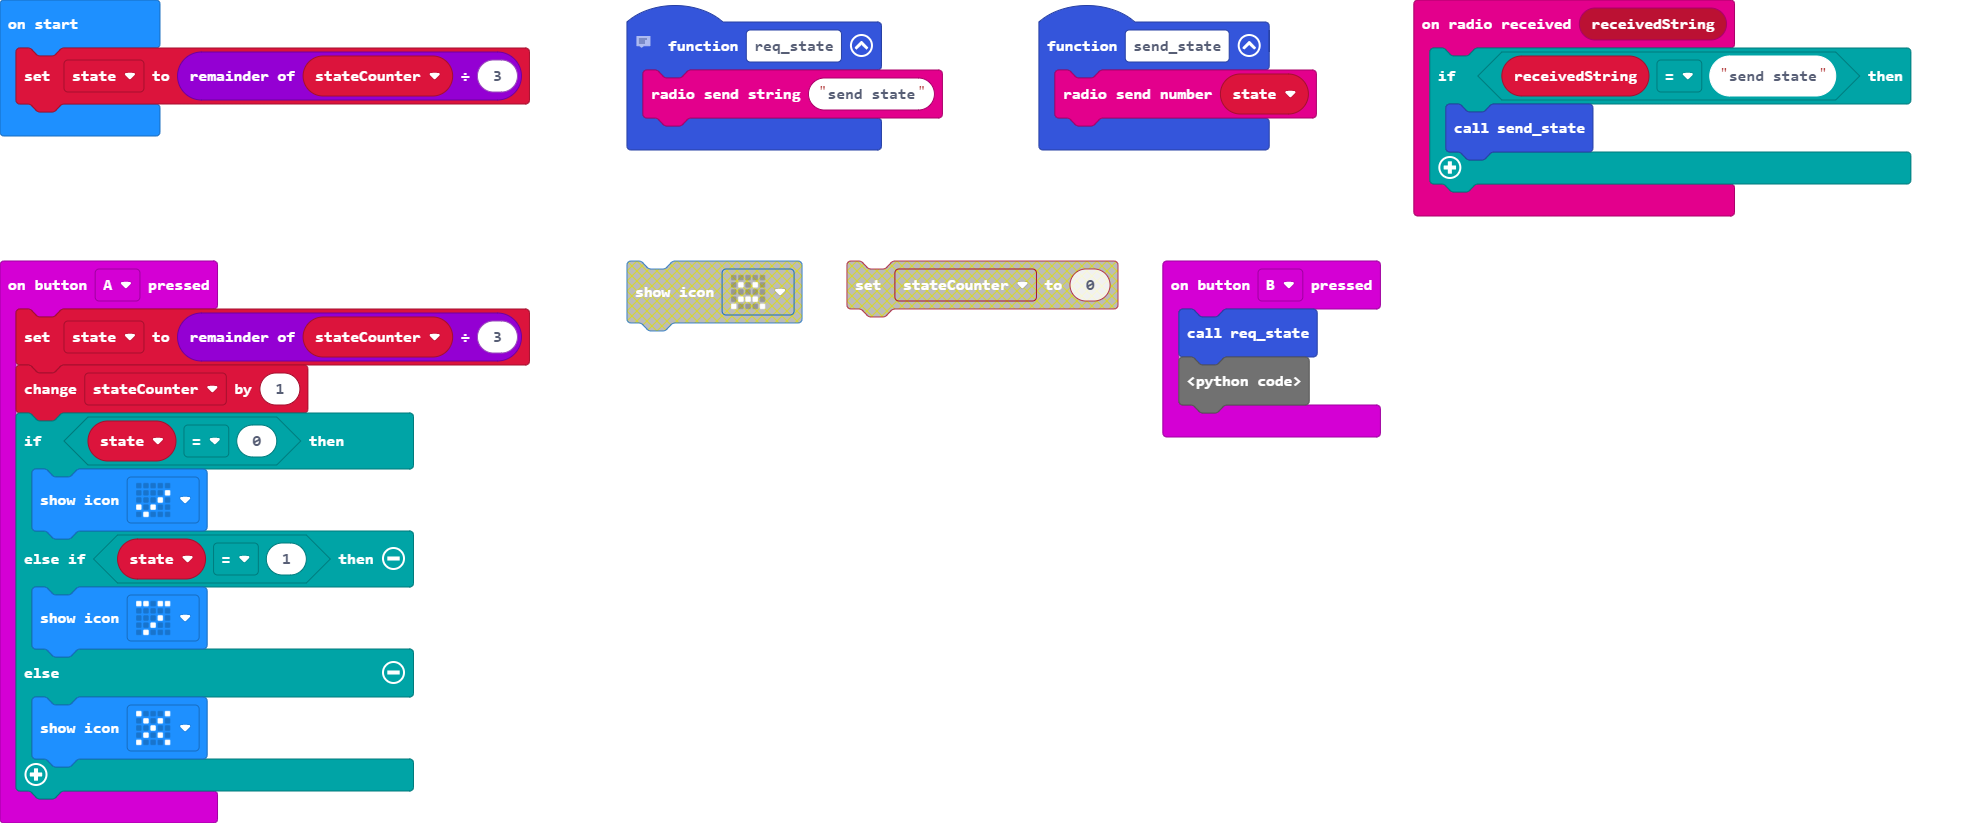
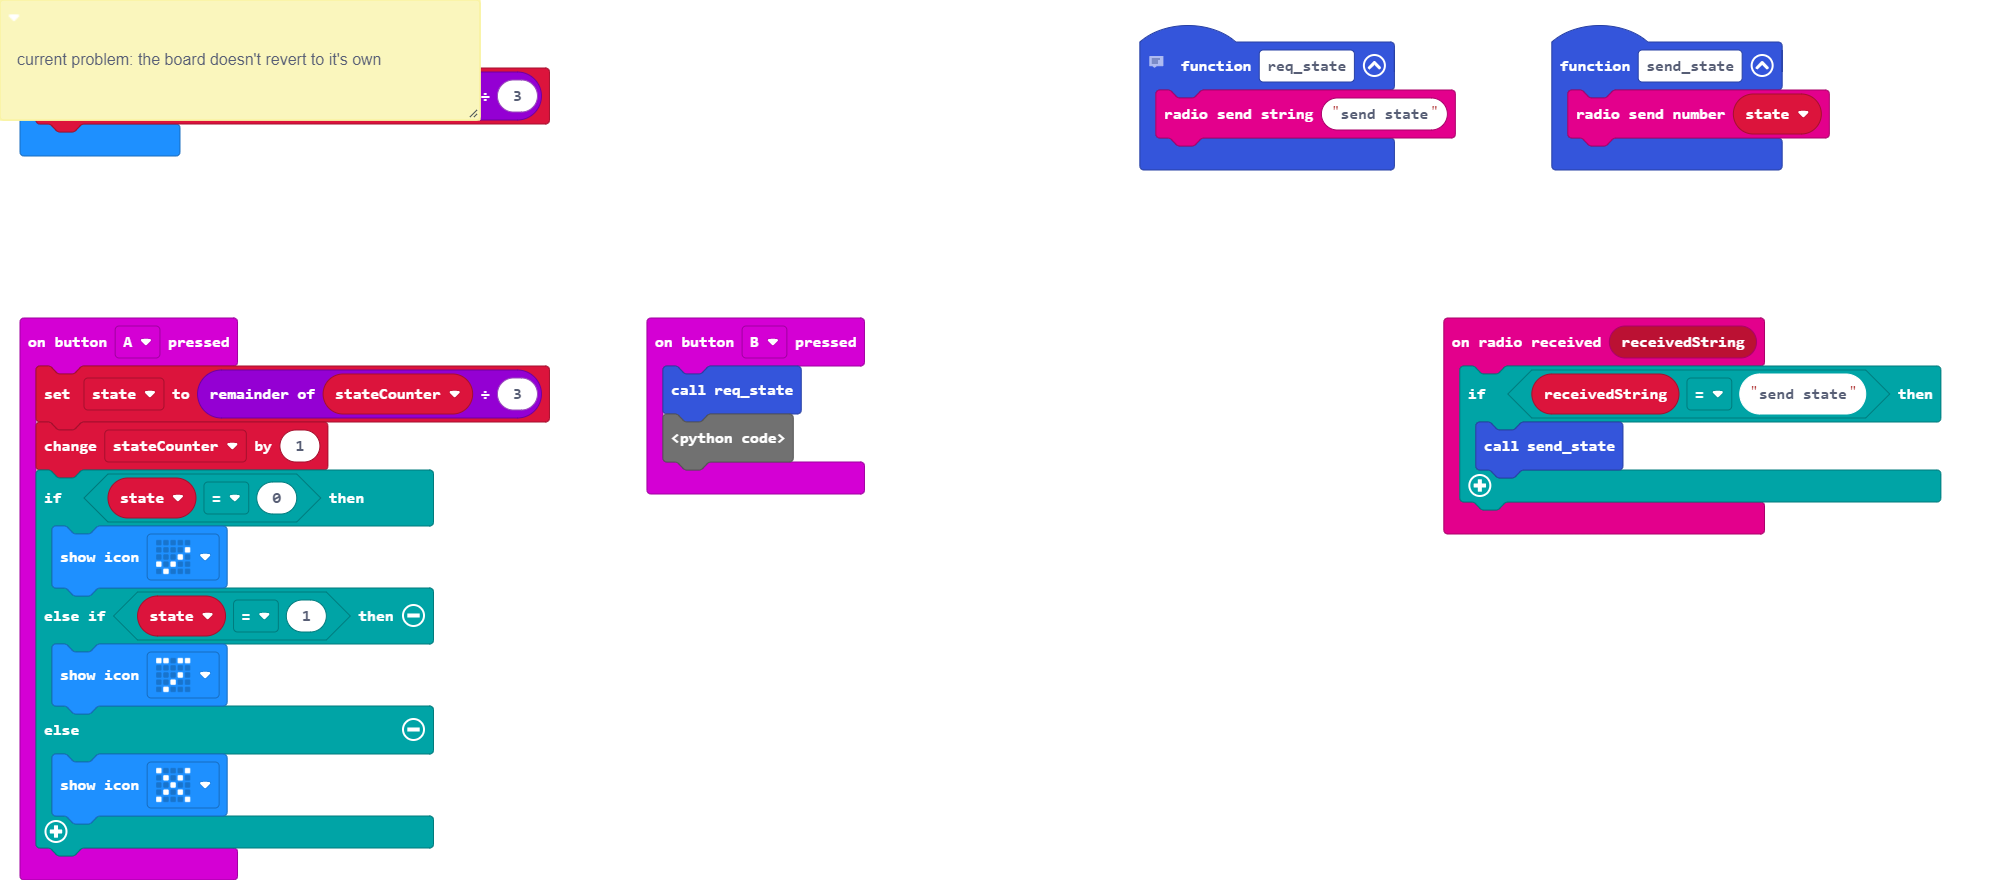
Change from screen response to LED response

diff --git a/main.ts b/main.ts
@@ -2,6 +2,7 @@
 //  state after requesting the state of the other board
 let stateCounter = 0
 let state = stateCounter % 3
+let strip = neopixel.create(DigitalPin.P2, 20, NeoPixelMode.RGB)
 //  show state depending on number (state) received
 function req_state() {
     radio.sendString("send state")
@@ -16,11 +17,14 @@ input.onButtonPressed(Button.A, function on_button_pressed_a() {
     state = stateCounter % 3
     stateCounter += 1
     if (state == 0) {
-        basic.showIcon(IconNames.Yes)
+        strip.showColor(neopixel.colors(NeoPixelColors.Green))
+        strip.show()
     } else if (state == 1) {
-        basic.showIcon(IconNames.Meh)
+        strip.showColor(neopixel.colors(NeoPixelColors.Yellow))
+        strip.show()
     } else {
-        basic.showIcon(IconNames.No)
+        strip.showColor(neopixel.colors(NeoPixelColors.Red))
+        strip.show()
     }
     
 })
@@ -29,14 +33,21 @@ input.onButtonPressed(Button.B, function on_button_pressed_b() {
     //  request state of other device
     radio.onReceivedNumber(function on_received_number(receivedNumber: number) {
         if (receivedNumber == 0) {
-            basic.showIcon(IconNames.Yes)
+            strip.showColor(neopixel.colors(NeoPixelColors.Green))
+            strip.show()
         } else if (receivedNumber == 1) {
-            basic.showIcon(IconNames.Meh)
+            strip.showColor(neopixel.colors(NeoPixelColors.Yellow))
+            strip.show()
         } else {
-            basic.showIcon(IconNames.No)
+            strip.showColor(neopixel.colors(NeoPixelColors.Red))
+            strip.show()
         }
         
     })
+})
+input.onButtonPressed(Button.AB, function on_button_pressed_ab() {
+    strip.clear()
+    strip.show()
 })
 radio.onReceivedString(function on_received_string(receivedString: string) {
     if (receivedString == "send state") {

diff --git a/main.py b/main.py
@@ -2,14 +2,18 @@
 # state after requesting the state of the other board
 stateCounter = 0
 state = stateCounter % 3
+strip = neopixel.create(DigitalPin.P2, 20, NeoPixelMode.RGB)
 
 def on_received_number(receivedNumber):
     if (receivedNumber == 0):
-        basic.show_icon(IconNames.YES)
+        strip.show_color(neopixel.colors(NeoPixelColors.GREEN))
+        strip.show()
     elif (receivedNumber == 1):
-        basic.show_icon(IconNames.MEH)
+        strip.show_color(neopixel.colors(NeoPixelColors.YELLOW))
+        strip.show()
     else:
-        basic.show_icon(IconNames.NO)
+        strip.show_color(neopixel.colors(NeoPixelColors.RED))
+        strip.show()
 
 def on_received_string(receivedString):
     if (receivedString == "send state"):
@@ -20,15 +24,22 @@ def on_button_pressed_a():
     state = stateCounter % 3
     stateCounter += 1 
     if (state == 0):
-        basic.show_icon(IconNames.YES)
+        strip.show_color(neopixel.colors(NeoPixelColors.GREEN))
+        strip.show()
     elif (state == 1):
-        basic.show_icon(IconNames.MEH)
+        strip.show_color(neopixel.colors(NeoPixelColors.YELLOW))
+        strip.show()
     else:
-        basic.show_icon(IconNames.NO)
+        strip.show_color(neopixel.colors(NeoPixelColors.RED))
+        strip.show()
 
 def on_button_pressed_b():
     req_state() # request state of other device
     radio.on_received_number(on_received_number) # show state depending on number (state) received
+
+def on_button_pressed_ab():
+    strip.clear()
+    strip.show()
 
 def req_state():
     radio.send_string("send state")
@@ -38,4 +49,5 @@ def send_state():
 
 input.on_button_pressed(Button.A, on_button_pressed_a) 
 input.on_button_pressed(Button.B, on_button_pressed_b)
-radio.on_received_string(on_received_string)
+input.on_button_pressed(Button.AB, on_button_pressed_ab)
+radio.on_received_string(on_received_string) 
